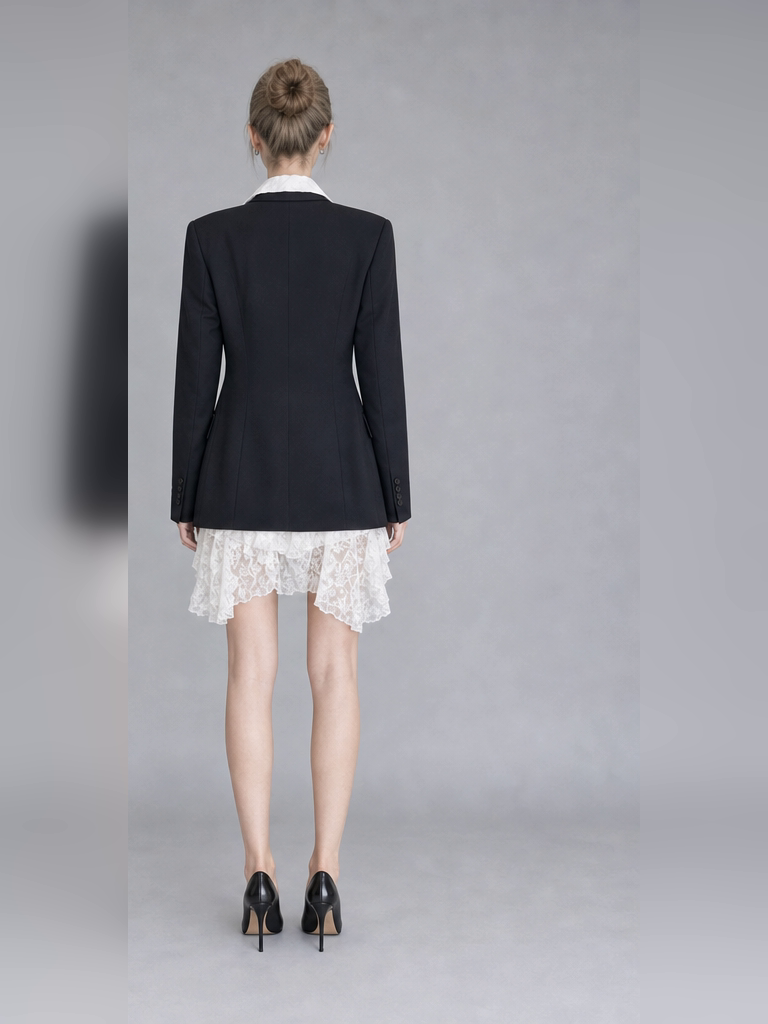
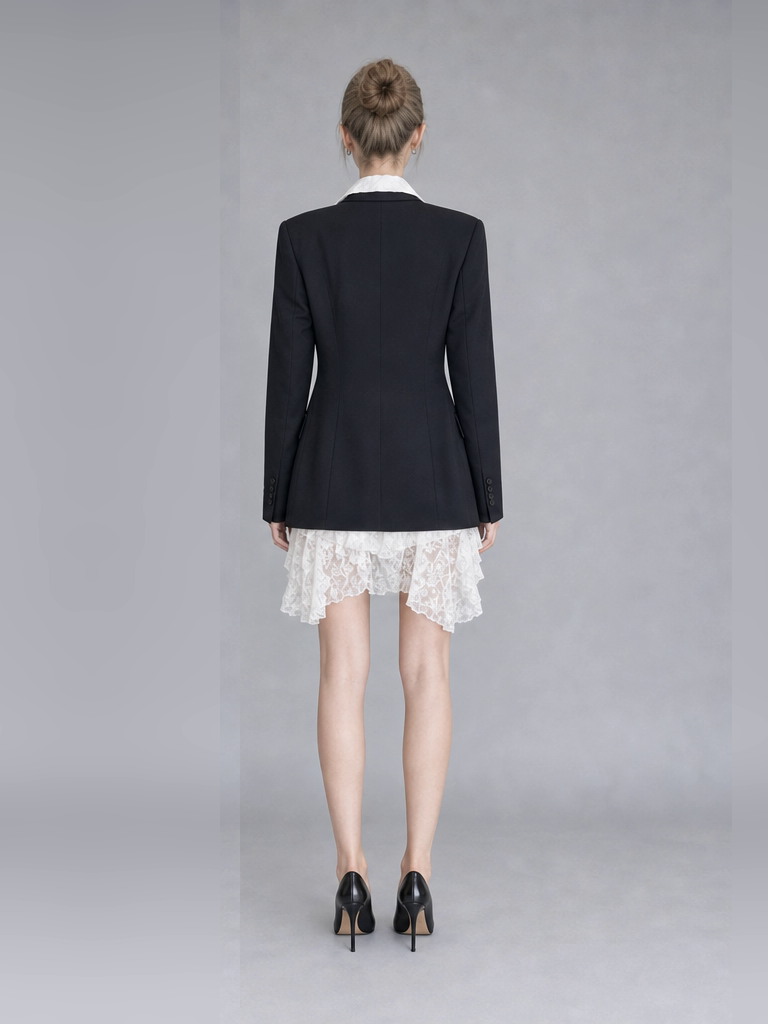
Fix Amber turnaround images and switching

Changed region(s): [[0.2188, 0.0625, 0.6562, 0.9375], [0.0312, 0.1875, 0.1875, 0.5625], [0.4062, 0.3125, 0.4688, 0.375]]

diff --git a/profile-refresh.js b/profile-refresh.js
@@ -19,9 +19,9 @@ const profileRefreshData = {
     name: "Amber", role: "Music Producer / Fashion", followers: "13,094",
     image: "assets/profiles/amber/night-portrait.png",
     angles: [
-      "assets/profiles/amber/angles/front.png",
-      "assets/profiles/amber/angles/side.png",
-      "assets/profiles/amber/angles/back.png"
+      "assets/profiles/amber/angles/front.png?v=amber-centered-20260728",
+      "assets/profiles/amber/angles/side.png?v=amber-centered-20260728",
+      "assets/profiles/amber/angles/back.png?v=amber-centered-20260728"
     ],
     facts: [["Height", "175 cm"], ["Weight", "50 kg"], ["Measurements", "85 / 63 / 89"], ["Shoe", "38"], ["Base", "Los Angeles / Seoul"], ["Languages", "English / Korean"], ["Nationality", "Korean-American"], ["Talent type", "Music / Fashion / City Culture"]],
     gallery: ["assets/profiles/amber/night-portrait.png", "assets/profiles/amber/denim-editorial.png", "assets/profiles/amber/festival-stage.png", "assets/profiles/amber/festival-wheel.png"]
@@ -99,6 +99,10 @@ if (activeProfile && profileShowcase) {
     : { available: "Available for Global Campaigns", followers: "Total followers", enquiry: "Enquire About This Talent", gallery: "Selected images", viewAll: "View all", collapse: "Collapse", front: "Front", side: "Side", back: "Back" };
   const facts = activeProfile.facts.map(([key, value]) => `<div><dt>${key}</dt><dd>${value}</dd></div>`).join("");
   const angleImages = activeProfile.angles || [activeProfile.image];
+  angleImages.forEach((src) => {
+    const preload = new Image();
+    preload.src = src;
+  });
   profileShowcase.innerHTML = `
     <div class="profile-overview">
       <div class="profile-overview-media">
@@ -140,10 +144,6 @@ if (activeProfile && profileShowcase) {
   `);
 
   const angleImage = document.querySelector("#profileAngleImage");
-  angleImage?.addEventListener("error", () => {
-    if (angleImage.src.endsWith(activeProfile.image)) return;
-    angleImage.src = activeProfile.image;
-  });
   document.querySelectorAll(".profile-gallery-track img").forEach((galleryImage) => {
     galleryImage.addEventListener("error", () => galleryImage.closest("figure")?.remove(), { once: true });
   });

diff --git a/profile-refresh.css b/profile-refresh.css
@@ -261,27 +261,16 @@
   width: min(100%, 576px);
 }
 
-/* Amber's supplied views have different subject axes inside each source image. */
 .profile-page[data-artist="amber"] .profile-angle-frame {
   background: #b9bbc0;
 }
 
 .profile-page[data-artist="amber"] .profile-angle-frame img {
-  width: 114%;
-  max-width: none;
+  width: 100%;
+  max-width: 100%;
+  object-position: center;
+  transform: none;
   transition: none;
-}
-
-.profile-page[data-artist="amber"] .profile-angle-frame[data-angle-index="0"] img {
-  transform: translateX(-15%);
-}
-
-.profile-page[data-artist="amber"] .profile-angle-frame[data-angle-index="1"] img {
-  transform: translateX(0);
-}
-
-.profile-page[data-artist="amber"] .profile-angle-frame[data-angle-index="2"] img {
-  transform: translateX(12%);
 }
 
 .profile-angle-controls {
